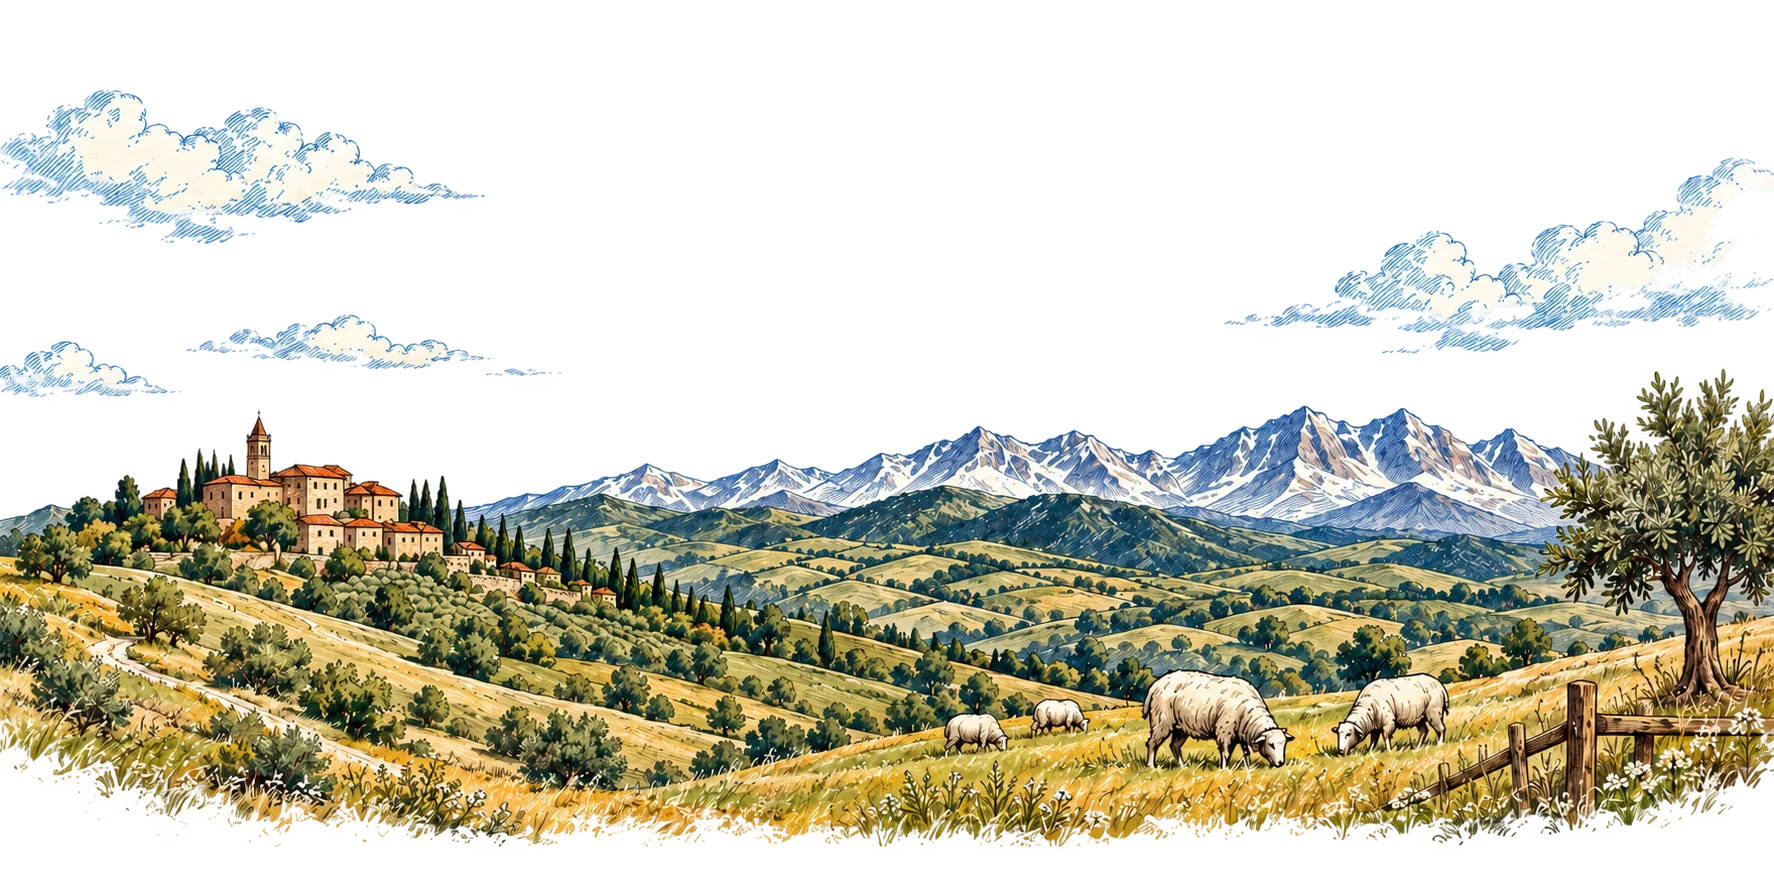
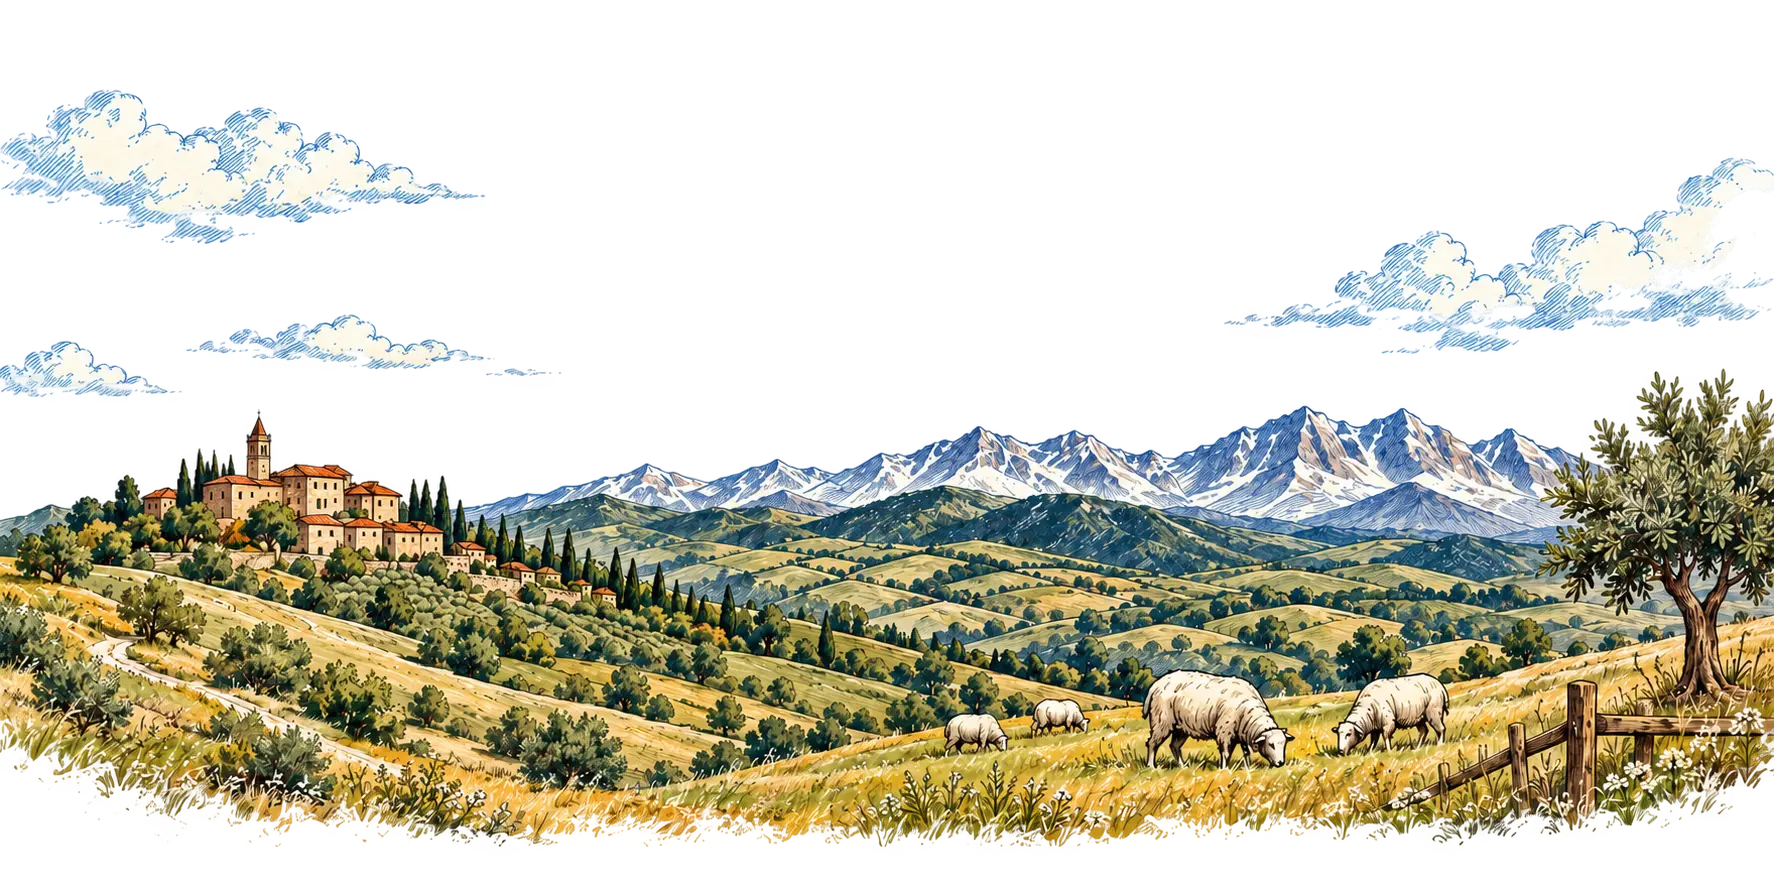
perf(web): resize the static images and serve responsive hero variants

diff --git a/apps/web/app/routes/welcome.tsx b/apps/web/app/routes/welcome.tsx
@@ -50,6 +50,8 @@ export default function Welcome({ loaderData }: Route.ComponentProps) {
           <img
             className="hero-landscape"
             src="/images/background.webp"
+            srcSet="/images/background-640.webp 640w, /images/background-1072.webp 1072w, /images/background.webp 1774w"
+            sizes="(max-width: 700px) 100vw, (max-width: 1000px) min(94vw, 912px), min(82vw, 1072px)"
             alt=""
             width="1774"
             height="887"
@@ -58,6 +60,8 @@ export default function Welcome({ loaderData }: Route.ComponentProps) {
             <motion.img
               className="hero-airplane"
               src="/images/airplane.webp"
+              srcSet="/images/airplane-640.webp 640w, /images/airplane-1072.webp 1072w, /images/airplane.webp 1774w"
+              sizes="(max-width: 700px) 100vw, (max-width: 1000px) 62vw, min(48vw, 737px)"
               alt=""
               width="1774"
               height="887"
